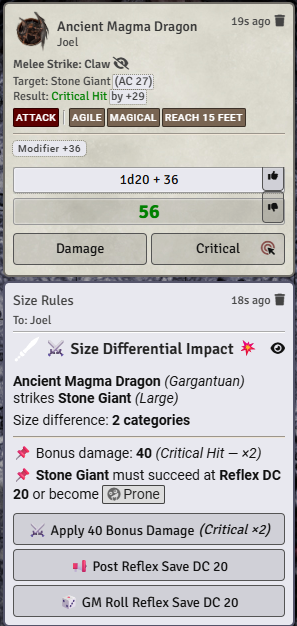
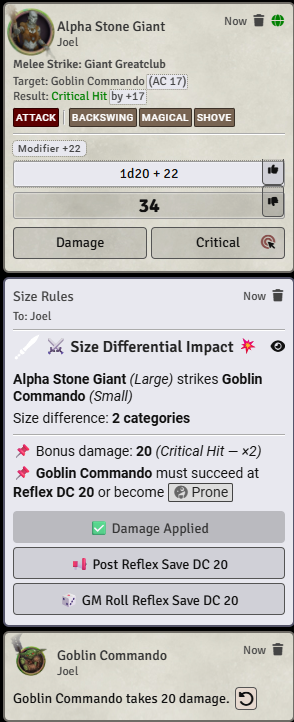
feat: apply damage via native PF2e pipeline with undo support (#1.3.0)
- Replace direct HP update with actor.applyDamage() using skipIWR: true
- Native damage card now posts to chat with undo button on apply
- Update README Design Notes to reflect IWR bypass behavior
- Update README Changelog for v1.3.0
- Update chat card screenshots to show native damage card
- Bump version to 1.3.0, verified Foundry 14.364

diff --git a/README.md b/README.md
@@ -243,6 +243,11 @@ The GM card reflects the normalization when it applies — a Small PC's size
 label will show as `Small → Medium` so the GM can see at a glance why the
 differential resolved the way it did.
 
+### Treat Small Player Characters as Medium
+<p align="center">
+  <img src="assets/images/settings-additional-options.png" alt="Additional Options" width="600"/>
+</p>
+
 ---
 
 ## The Chat Card
@@ -291,16 +296,19 @@ narrative and tactical weight to size differentials without overwhelming players
 with additional mechanics they need to track. The GM sees the prompt, applies
 the damage, calls for the save, and narrates the result.
 
-Size differential only applies to **melee attacks**. Ranged attacks, spells,
-and abilities are not affected.
+Size differential only applies to **melee attacks**. Ranged attacks, spells, and abilities 
+are not affected.
 
-Bonus damage bypasses IWR (Immunity, Weakness, Resistance) when applied via
-the button — it is treated as a direct HP reduction. GMs should account for
-relevant resistances or immunities manually if needed.
+Bonus damage is applied via PF2e's native damage pipeline with IWR bypassed 
+(skipIWR: true) — it lands as a flat HP reduction unaffected by resistances or immunities.
 
 ---
 
 ## Changelog
+
+### v1.3.0
+- **Improved:** Apply Damage now uses PF2e's native applyDamage() pipeline,
+  producing a chat card with an undo button when damage is applied.
 
 ### v1.2.2
 - **Confirmed:** v14 Support.
